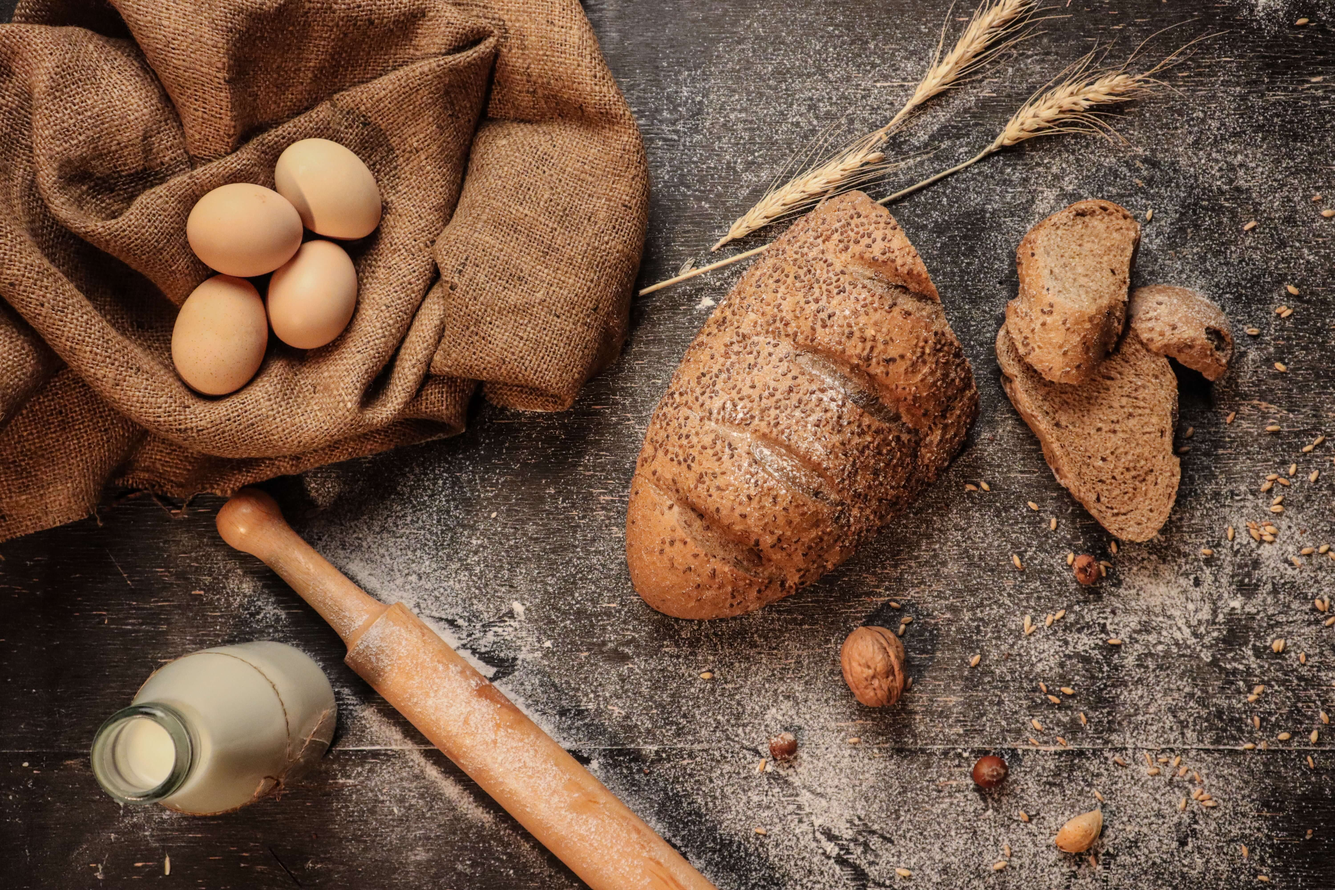
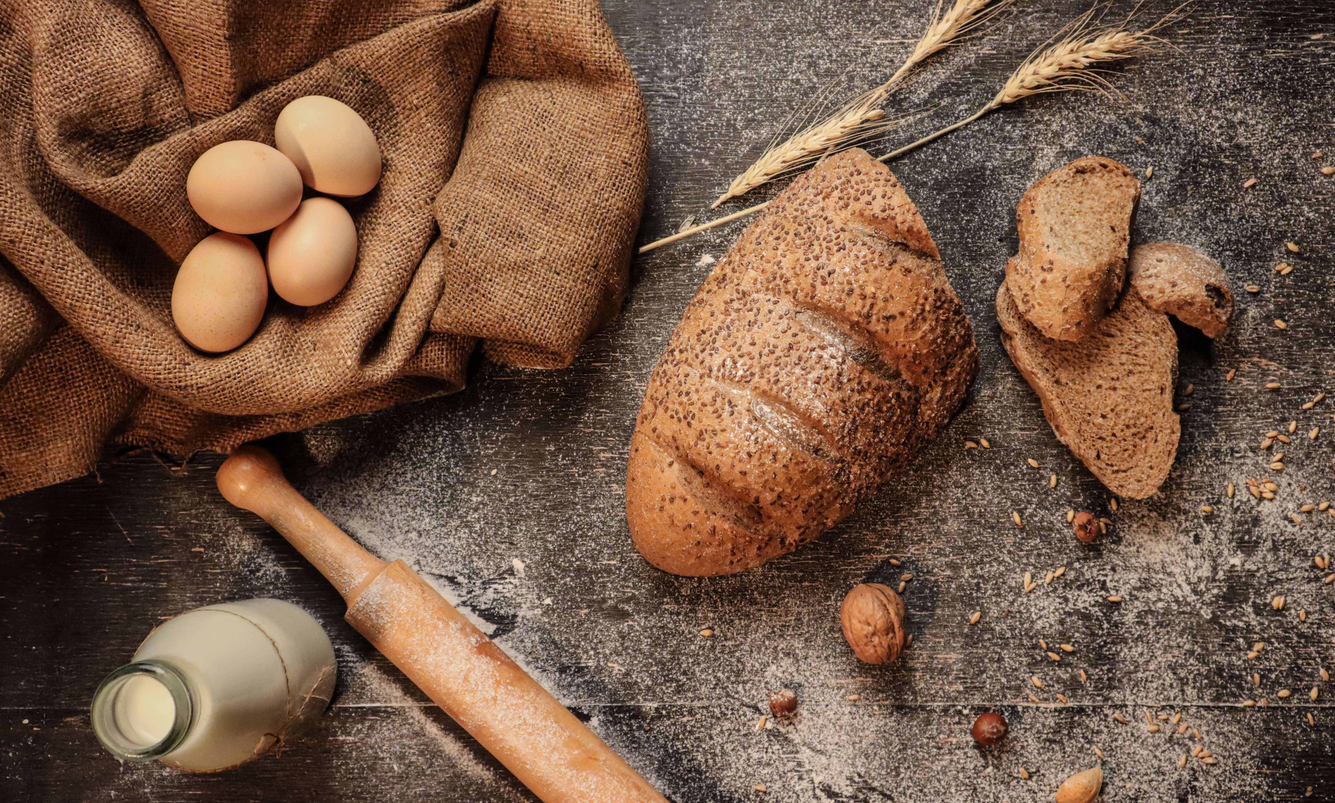
se integran funciones query

diff --git a/src/components/Search.jsx b/src/components/Search.jsx
@@ -1,12 +1,22 @@
-import React, { useState } from 'react';
+import React, { useContext, useState } from 'react';
+import { CartContext } from '../contexts/CartContext';
 import './styles/Search.css'
 
 function Search() {
+
     const [show, setShow] = useState(false);
+    const [query, setQuery] = useState('');
+    const cartContext = useContext(CartContext);
+    const { products } = cartContext;
+
     const changeState = () => {
         setShow(!show);
     }
+    console.log('query');
+    console.log(products);
+
     if (show) {
+
         return (
             <section className="search-container">
                 <div className="search-box">
@@ -14,12 +24,18 @@ function Search() {
                     <p>Escribí lo que estás buscando...</p>
                     <form className="form-search" action="">
                         <input className="form-search__input" type="text"
-                            placeholder="Buscá entre nuestros productos" />
+                            placeholder="Buscá entre nuestros productos" 
+                            value={query}
+                            onChange={ (e)=> {
+                                setQuery(e.target.value);
+                            }}
+                        />
                         <button className="form-search__button">
                             <i className="search-icon"></i>
                         </button>
                     </form>
                 </div>
+                {query&&<div className="result-box">Estás buscando {query}</div>}
             </section>
         );
     } else {

diff --git a/src/helpers/searchsFunctions.js b/src/helpers/searchsFunctions.js
@@ -1,4 +1,3 @@
-import {products} from "../data/dataProducts";
 import { getFirestore } from '../data/importData';
 
 const db = getFirestore();
@@ -57,6 +56,13 @@ const getProductByIdPrueba = (field, value) => {
     });
 }
 
+const getProductByName = (value, bbdd) => {
+    return new Promise((resolve, reject) => {
+        const result = bbdd.filter(product => product.productName.includes(value));
+        resolve(result);
+    });
+}
+
 // const getSpecificQuantity = (quantity) => products.filter((product) => product.itemID <= quantity); 
 
 // const getProductById = (id) => products.find((product) => product.itemID === parseInt(id)); 
@@ -69,5 +75,6 @@ export {
     getProductBy,
     getProductById,
     getProductByIdPrueba,
+    getProductByName,
 
 }

diff --git a/src/components/Hero.jsx b/src/components/Hero.jsx
@@ -5,7 +5,7 @@ function Hero() {
 
     return (
         <section className="hero">
-            <div className="hero__slide--1 background-image"></div>
+            <div className="hero__slide background-image"></div>
             <div className="hero__content">
                 <h2 className="hero__title">Porque el pan<br />no puede faltar</h2>
                 <p className="hero__paragraph">Encontrá el pan perfecto para acompañar tus mañanas</p>

diff --git a/src/components/styles/Hero.css b/src/components/styles/Hero.css
@@ -5,16 +5,18 @@
     min-width: 320px;
     width: 100%;
     height: calc(100vh - 146.44px);
-    background-color: blueviolet;
+    background-color: var(--primary-green);
     overflow: hidden;
 }
 
-.hero__slide--1 {
+.hero__slide {
     width: 100%;
     height: 100%;
     animation: zoom 8s 0s;
     background-image: url('../../assets/img/ingredientes-para-pan.jpg');
+    filter: brightness(0.8);
 }
+
 
 .hero__content {
     position: absolute;

diff --git a/src/components/ItemList.jsx b/src/components/ItemList.jsx
@@ -5,7 +5,7 @@ import './styles/ItemList.css'
 // import { getAllProducts } from '../helpers/searchsFunctions';
 import loading from '../assets/img/toriPan.gif' 
 
-const ItemList = ({ searchFunction, field, value }) => {
+const ItemList = ({ searchFunction, field, value, }) => {
 
     const [items, setItems] = useState(null);
     useEffect(() => {

diff --git a/src/components/styles/Search.css b/src/components/styles/Search.css
@@ -13,6 +13,7 @@
 
 .search-container {
     display: flex;
+    flex-direction: column;
     width: 100vw;
     height: 100vh;
     background: rgba(0, 0, 0, .6);
@@ -64,4 +65,10 @@
 
 .form-search__button i {
     fill: #999;
+}
+
+.result-box{
+    min-width: 320px;
+    min-height: 520px;
+    background-color: red;
 }

diff --git a/src/components/styles/CartItem.css b/src/components/styles/CartItem.css
@@ -6,7 +6,7 @@
 
 .cart-item-container__imagen {
     width: 120px;
-    height: 160px;
+    height: 100px;
     margin-right: 10px;
 }
 

diff --git a/src/index.css b/src/index.css
@@ -104,6 +104,7 @@ li {
   }
 }
 
+
 @keyframes zoom {
   0% {
     opacity: 0;
